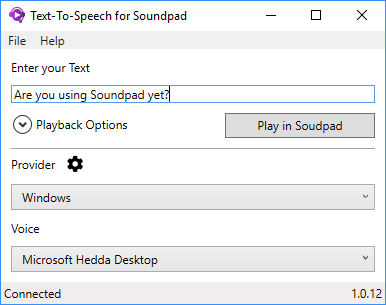
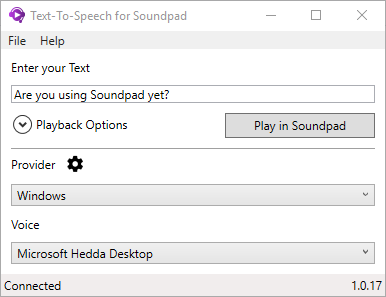
Add settings backup & restore

diff --git a/src/TTSApp/MainWindow.xaml b/src/TTSApp/MainWindow.xaml
@@ -93,7 +93,7 @@
                 </StackPanel>
 
                 <Button x:Name="PlaySoundpadButton" 
-                        Content="Play in Soudpad" 
+                        Content="Play in Soundpad" 
                         HorizontalAlignment="Right" 
                         VerticalAlignment="Top" 
                         Width="150" 

diff --git a/src/TTSApp/MainWindow.xaml.cs b/src/TTSApp/MainWindow.xaml.cs
@@ -2,6 +2,7 @@
 using System.Collections.Generic;
 using System.ComponentModel;
 using System.Configuration;
+using System.Diagnostics;
 using System.IO;
 using System.Linq;
 using System.Reflection;
@@ -38,7 +39,8 @@ namespace TTSApp
 
         public MainWindow()
         {
-            InitializeComponent();           
+            InitializeComponent();
+            RestoreSettings();
         }
 
         public static MainWindowViewModel Model { get; set; }
@@ -66,7 +68,8 @@ namespace TTSApp
 
         private async Task InitializeSoundpad()
         {
-            _soundpad = new Soundpad {
+            _soundpad = new Soundpad
+            {
                 AutoReconnect = true
             };
             _soundpad.StatusChanged += SoundpadOnStatusChanged;
@@ -80,7 +83,7 @@ namespace TTSApp
                 UpdateSpinner.Visibility = Visibility.Visible;
                 VersionTextBlock.Text = "Checking for Updates...";
                 using (var mgr = new UpdateManager(UpdateUrl))
-                {                                  
+                {
                     var update = await mgr.CheckForUpdate(true);
                     VersionTextBlock.Text = update.CurrentlyInstalledVersion.Version.ToString();
                     if (update.CurrentlyInstalledVersion.EntryAsString != update.FutureReleaseEntry.EntryAsString)
@@ -88,6 +91,7 @@ namespace TTSApp
                         VersionTextBlock.Text = "Installing Updates...";
                         await mgr.UpdateApp();
                         VersionTextBlock.Text = "Updates installed. Please restart.";
+                        BackupSettings();
                     }
                 }
             }
@@ -213,12 +217,9 @@ namespace TTSApp
                 return;
             }
 
-            
+
             var text = InputTextBox.Text;
-            if (Settings.Default.EmptyTextAfterPlay)
-            {
-                InputTextBox.Text = "";
-            }
+            if (Settings.Default.EmptyTextAfterPlay) InputTextBox.Text = "";
             InputTextBox.Focus();
             await Play(text);
         }
@@ -234,20 +235,19 @@ namespace TTSApp
             settings.ShowDialog();
         }
 
-        private void MenuItemAbout_OnClick(object sender, RoutedEventArgs e) {
+        private void MenuItemAbout_OnClick(object sender, RoutedEventArgs e)
+        {
             var about = new AboutWindow();
             about.ShowDialog();
         }
 
         private void InputTextBox_OnKeyUp(object sender, KeyEventArgs e)
         {
-            if (e.Key == Key.Enter)
-            {
-                PlaySoundpadButton_Click(sender, e);
-            }
+            if (e.Key == Key.Enter) PlaySoundpadButton_Click(sender, e);
         }
 
-        private void SettingsCheckboxChanged(object sender, RoutedEventArgs e) {
+        private void SettingsCheckboxChanged(object sender, RoutedEventArgs e)
+        {
             Settings.Default.Save();
         }
 
@@ -259,20 +259,73 @@ namespace TTSApp
 
         private void MenuItemWebsite_OnClick(object sender, RoutedEventArgs e)
         {
-            System.Diagnostics.Process.Start("https://github.com/medokin/soundpad-text-to-speech");
+            Process.Start("https://github.com/medokin/soundpad-text-to-speech");
         }
 
         private void MenuItemReportAnIssue_OnClick(object sender, RoutedEventArgs e)
         {
-            System.Diagnostics.Process.Start("https://github.com/medokin/soundpad-text-to-speech/issues/new");
+            Process.Start("https://github.com/medokin/soundpad-text-to-speech/issues/new");
+        }
+
+        public void BackupSettings()
+        {
+            try
+            {
+                var settingsFile = ConfigurationManager
+                    .OpenExeConfiguration(ConfigurationUserLevel.PerUserRoamingAndLocal).FilePath;
+                var destination = Path.GetDirectoryName(Assembly.GetExecutingAssembly().Location) + "\\..\\last.config";
+                File.Copy(settingsFile, destination, true);
+            }
+            catch (Exception e) 
+            {
+            }
+        }
+
+        private void RestoreSettings()
+        {
+            //Restore settings after application update            
+            var destFile = ConfigurationManager.OpenExeConfiguration(ConfigurationUserLevel.PerUserRoamingAndLocal)
+                .FilePath;
+            var sourceFile = Path.GetDirectoryName(Assembly.GetExecutingAssembly().Location) + "\\..\\last.config";
+            // Check if we have settings that we need to restore
+            if (!File.Exists(sourceFile)) return;
+            // Create directory as needed
+            try
+            {
+                Directory.CreateDirectory(Path.GetDirectoryName(destFile));
+            }
+            catch (Exception)
+            {
+            }
+
+            // Copy our backup file in place 
+            try
+            {
+                File.Copy(sourceFile, destFile, true);
+                Settings.Default.Reload();
+            }
+            catch (Exception)
+            {
+            }
+
+            // Delete backup file
+            try
+            {
+                File.Delete(sourceFile);
+            }
+            catch (Exception)
+            {
+            }
         }
     }
 
     public class MainWindowViewModel : INotifyPropertyChanged
     {
-        public MainWindowViewModel()
-        {
-        }
+        public ITextToSpeechProvider SelectedProvider { get; set; }
+        public IList<ITextToSpeechProvider> ProviderList { get; set; }
+        public IList<IVoice> VoiceList { get; set; }
+        public IVoice SelectedVoice { get; set; }
+        public event PropertyChangedEventHandler PropertyChanged;
 
         private void ReloadProviderList()
         {
@@ -286,12 +339,6 @@ namespace TTSApp
 
             OnPropertyChanged(nameof(ProviderList));
         }
-
-        public ITextToSpeechProvider SelectedProvider { get; set; }
-        public IList<ITextToSpeechProvider> ProviderList { get; set; }
-        public IList<IVoice> VoiceList { get; set; }
-        public IVoice SelectedVoice { get; set; }
-        public event PropertyChangedEventHandler PropertyChanged;
 
         [NotifyPropertyChangedInvocator]
         public virtual void OnPropertyChanged([CallerMemberName] string propertyName = null)
@@ -351,7 +398,8 @@ namespace TTSApp
 
 
             var lastUsedProvider =
-                ProviderList.FirstOrDefault(provider => provider.Name == Settings.Default.LastProvider && provider.IsAvailable);
+                ProviderList.FirstOrDefault(provider =>
+                    provider.Name == Settings.Default.LastProvider && provider.IsAvailable);
 
             return lastUsedProvider ?? ProviderList.First();
         }

diff --git a/src/TTSApp/Properties/AssemblyInfo.cs b/src/TTSApp/Properties/AssemblyInfo.cs
@@ -51,5 +51,5 @@ using System.Windows;
 // Sie können alle Werte angeben oder Standardwerte für die Build- und Revisionsnummern verwenden,
 // übernehmen, indem Sie "*" eingeben:
 // [assembly: AssemblyVersion("1.0.*")]
-[assembly: AssemblyVersion("1.0.15")]
-[assembly: AssemblyFileVersion("1.0.15")]
+[assembly: AssemblyVersion("1.0.17")]
+[assembly: AssemblyFileVersion("1.0.17")]

diff --git a/README.md b/README.md
@@ -10,7 +10,7 @@
 
 
 ## Table of contents
-<a href="https://mathewsachin.github.io/Captura/screenshots"><img src="app.png" align="right"></a>
+<a href="https://github.com/medokin/soundpad-text-to-speech/blob/master/app.png"><img src="app.png" align="right"></a>
 
   * [Requirements](#requirements)
   * [Installation](#installation)
